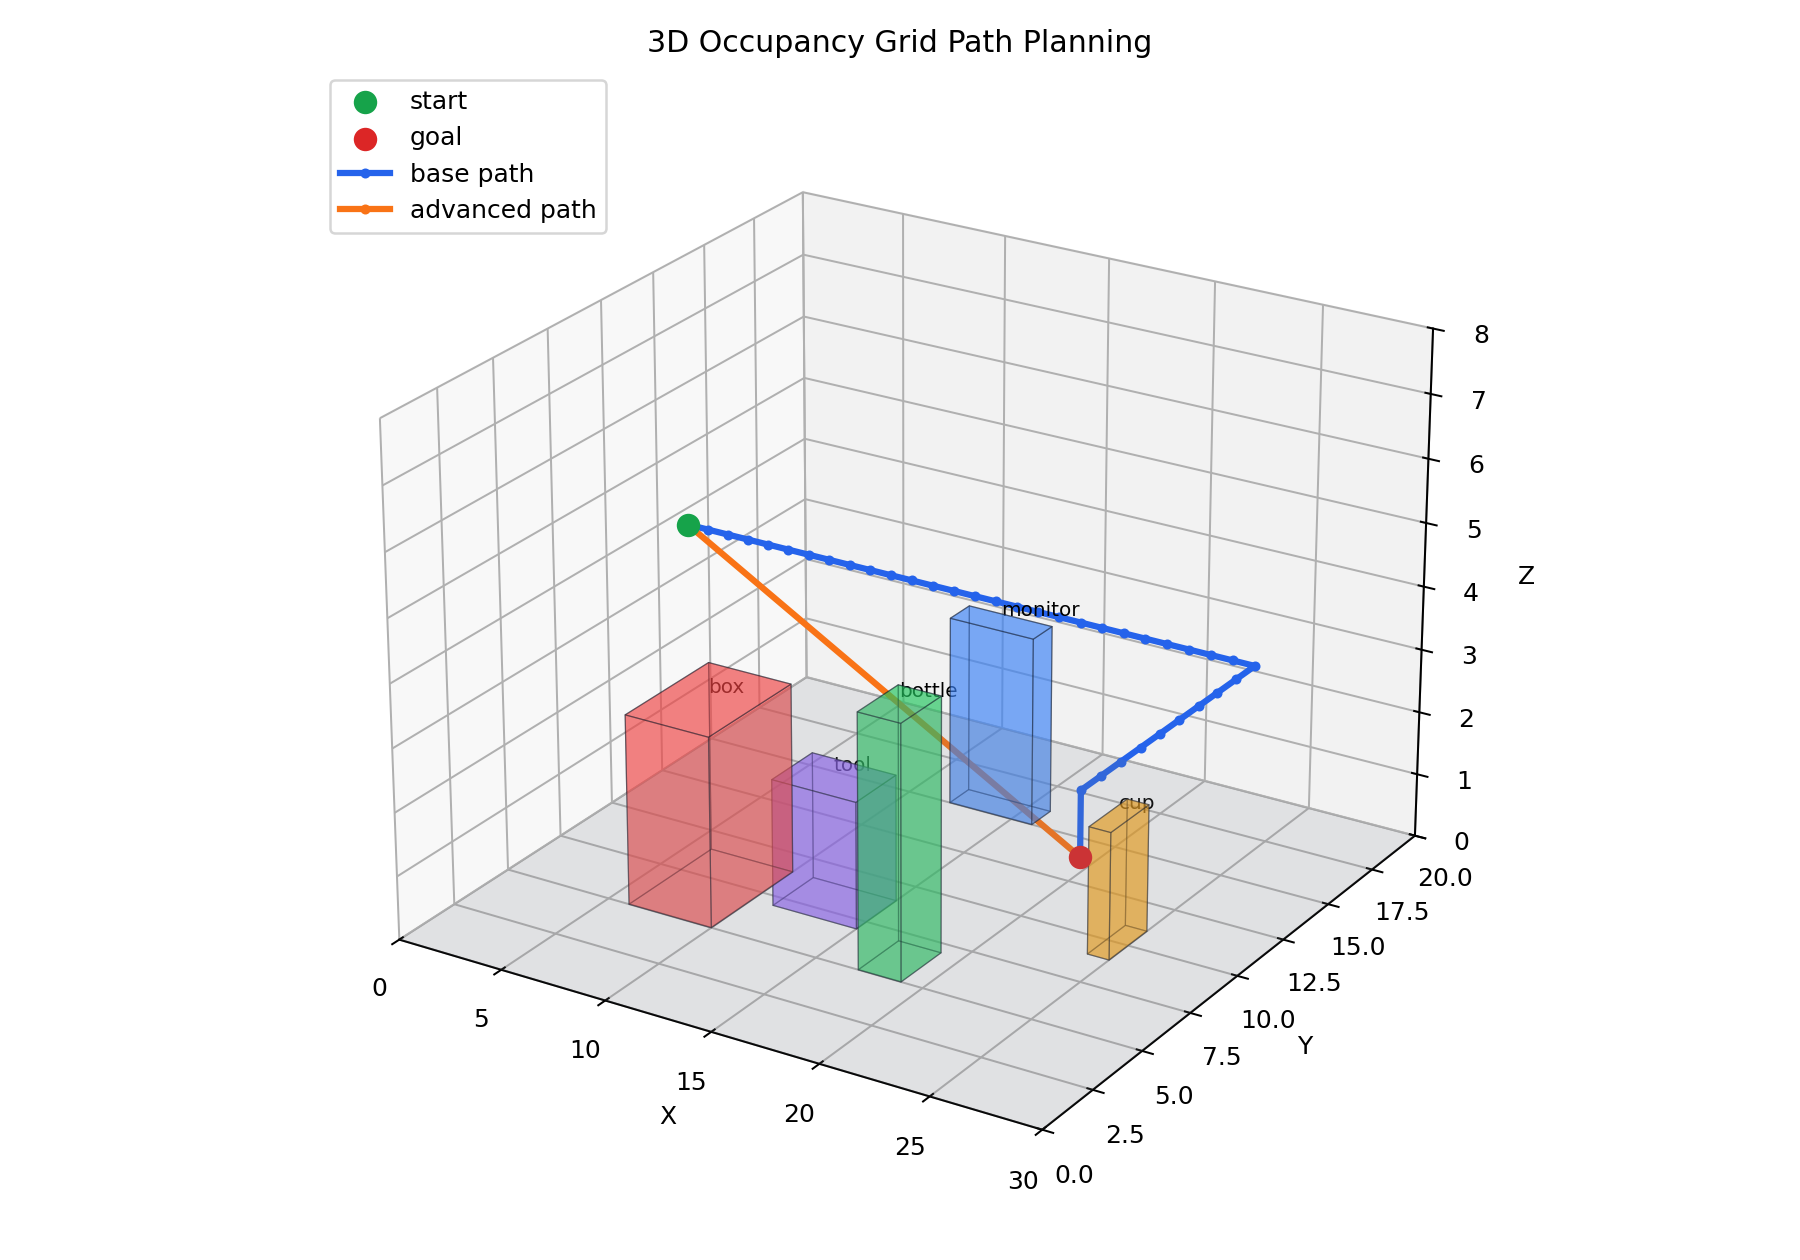
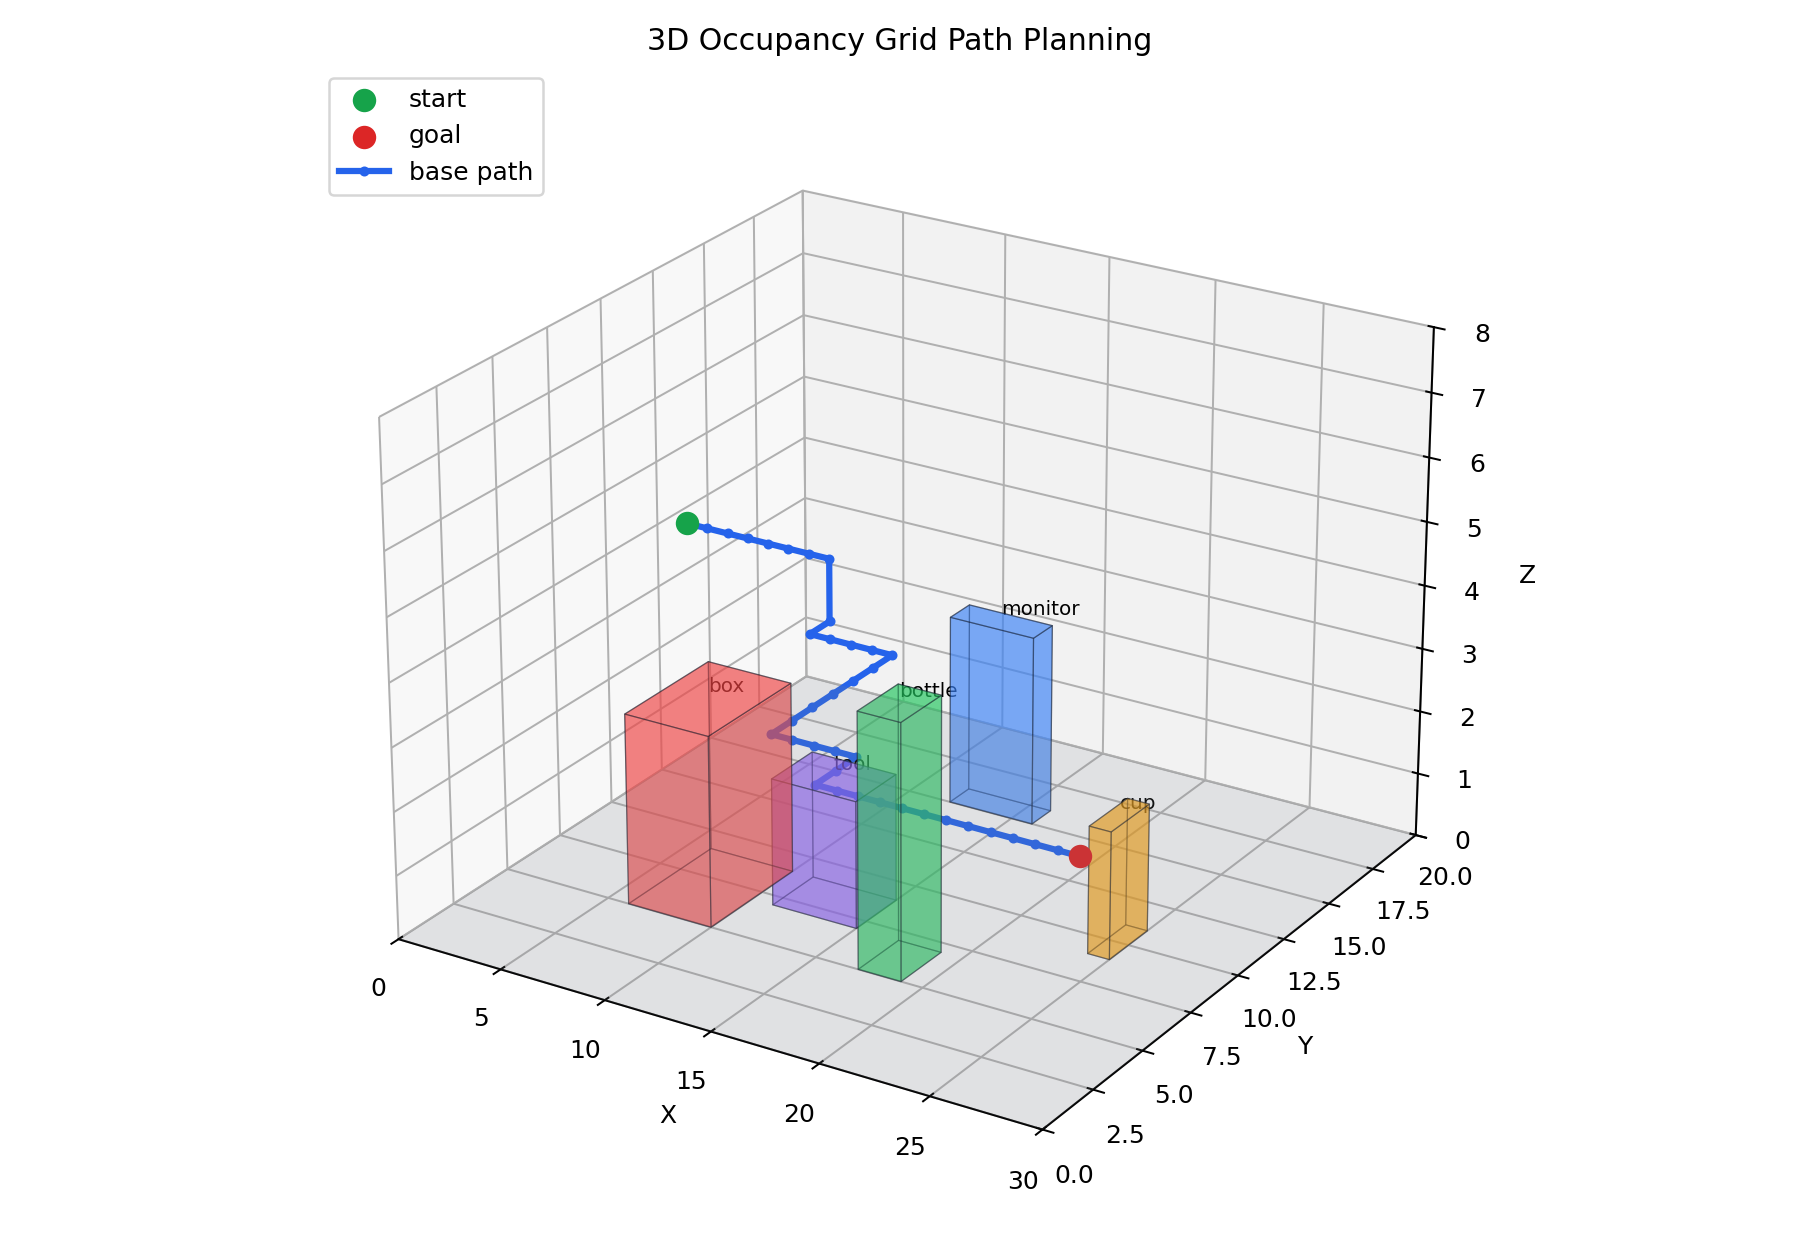
a

diff --git a/astar/tools/run_all.py b/astar/tools/run_all.py
@@ -26,9 +26,9 @@ def main():
         run(["./basic_astar", str(input_path.relative_to(root)), str(Path("base_output") / out_name)], root)
         run(["./advanced_astar", str(input_path.relative_to(root)), str(Path("advanced_output") / out_name)], root)
 
-    run(["python", "tools/evaluate_base.py", "--input", "input", "--output", "base_output"], root)
-    run(["python", "tools/evaluate_advanced.py", "--input", "input", "--base_output", "base_output", "--advanced_output", "advanced_output"], root)
-    run(["python", "tools/visualize.py", "--input", "input/input_0.txt", "--base", "base_output/output_0.txt", "--advanced", "advanced_output/output_0.txt", "--save", "vis_0.png"], root)
+    run(["python3", "tools/evaluate_base.py", "--input", "input", "--output", "base_output"], root)
+    run(["python3", "tools/evaluate_advanced.py", "--input", "input", "--base_output", "base_output", "--advanced_output", "advanced_output"], root)
+    run(["python3", "tools/visualize.py", "--input", "input/input_0.txt", "--base", "base_output/output_0.txt", "--advanced", "advanced_output/output_0.txt", "--save", "vis_0.png"], root)
 
 
 if __name__ == "__main__":

diff --git a/astar/src/Astar.cpp b/astar/src/Astar.cpp
@@ -111,8 +111,6 @@ vector<Point> reconstructPath(const Scene& scene, const vector<int>& parent) {
 }
 
 vector<Point> astar(const Scene& scene) {
-    auto occ = buildOccupancy(scene);
-    if (!freeCell(scene, occ, scene.start) || !freeCell(scene, occ, scene.goal)) return {};
     
     // TODO 3: 实现A*主循环。
     // 要求:
@@ -124,6 +122,9 @@ vector<Point> astar(const Scene& scene) {
     // 6. 找到goal后调用reconstructPath(scene, parent)返回路径。
     //
     // 下面这些变量已经准备好，可直接使用。
+    auto occ = buildOccupancy(scene);
+    if (!freeCell(scene, occ, scene.start) || !freeCell(scene, occ, scene.goal)) return {}; 
+
     const int total = scene.X * scene.Y * scene.Z;
     vector<int> g(total, numeric_limits<int>::max());
     vector<int> parent(total, -1);
